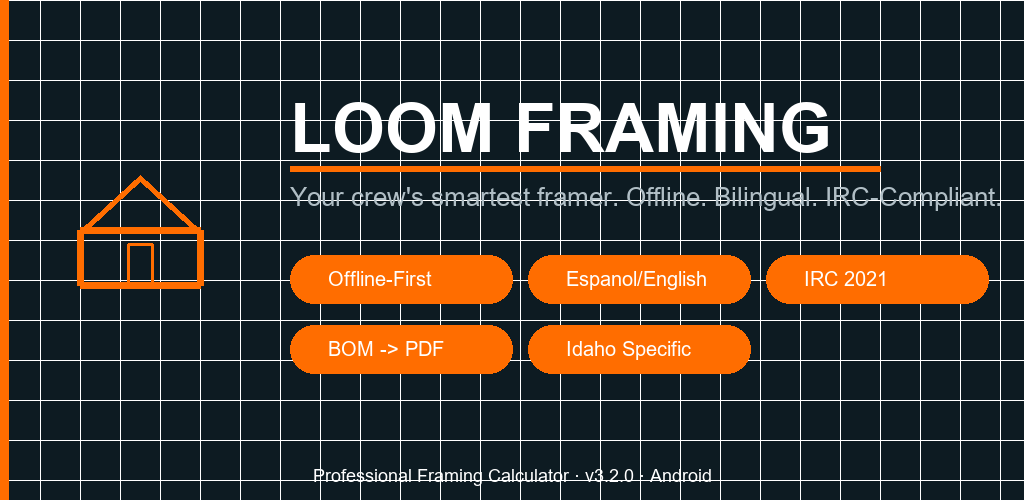
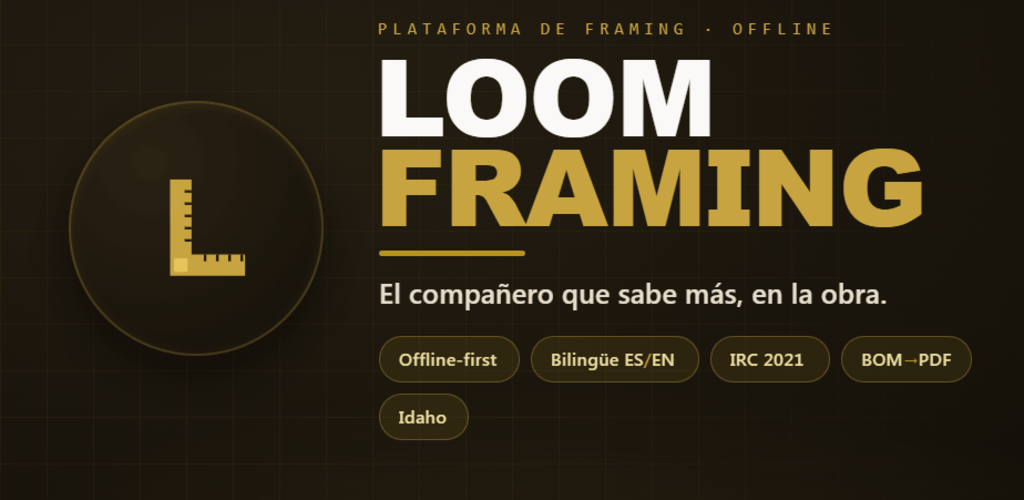
fix(landing): reframe testers a invitacion abierta + og:image gold/cream
Quita todo conteo/limite de testers del copy publico (canon inviolable
2026-06-16): hero subtext, parrafo y grilla de progreso de la seccion
TesterRecruit. Reemplaza el og:image v3 naranja por el banner
gold/cream 1024x500 (opaco, sin version) pa' que los posts nuevos de
FB salgan con la marca correcta.

diff --git a/loom/index.html b/loom/index.html
@@ -679,7 +679,7 @@ function Hero() {
       fontSize: 12,
       color: 'rgba(250,249,247,0.45)'
     }
-  }, "9 de 12 frameros pa' abrir el lanzamiento \xB7 closed testing"));
+  }, "Hecha por un framero, pa' frameros \xB7 \xE9ntrale al closed testing"));
 }
 
 // ─────────── BadgeRow ───────────
@@ -1669,15 +1669,12 @@ function FounderSeal() {
   }, "\u2014 Jes\xFAs (JezBlade) \xB7 framer & fundador de Loom"))));
 }
 
-// ─────────── TesterRecruit — invitación abierta + progreso + unity ───────────
-// 12 = umbral mínimo de Google Play (12 testers activos 14 días) pa' desbloquear
-// production. NO es un cap — es el piso. Copy = invitación abierta + progreso
-// ("ya somos 9, éntrale"), NUNCA escasez ("quedan X" / "cupo limitado").
-// Reciprocidad real (qué gana el tester). Unidad (crew, no hermandad).
-// SIN countdown inventado, SIN "X viéndola ahora".
+// ─────────── TesterRecruit — invitación abierta + reciprocidad + unity ───────────
+// CANON INVIOLABLE (2026-06-16): NUNCA conteos ni límites de testers en copy público
+// (sin números, sin grilla de progreso, sin escasez tipo "quedan X" / "cupo limitado").
+// Copy = invitación abierta + reciprocidad real (qué gana el tester) + unidad (crew).
+// SIN countdown inventado, SIN "X viéndola ahora", SIN cifras de testers.
 function TesterRecruit() {
-  const TAKEN = 9,
-    GOAL = 12;
   const GIVES = [['Antes que nadie', 'Bajas la v4 mientras los dem\xE1s esperan la p\xFAblica.'], ['Tu palabra pesa', 'Lo que reportas moldea la herramienta \u2014 feature por feature.'], ['Entras al crew', 'Tu nombre entre los que la levantaron desde el cimiento.']];
   return /*#__PURE__*/React.createElement("section", {
     style: {
@@ -1728,33 +1725,7 @@ function TesterRecruit() {
       lineHeight: 1.5,
       color: 'rgba(250,249,247,0.78)'
     }
-  }, "Google pide 12 frameros prob\xE1ndola activos pa' abrir el lanzamiento p\xFAblico. Ya van 9. No es un cupo que se cierra \u2014 es la meta que, cuando la pegamos, le abre la puerta a todo el gremio."), /*#__PURE__*/React.createElement("div", {
-    style: {
-      display: 'flex',
-      justifyContent: 'center',
-      gap: 9,
-      flexWrap: 'wrap',
-      marginBottom: 14
-    }
-  }, Array.from({
-    length: GOAL
-  }).map((_, i) => /*#__PURE__*/React.createElement("span", {
-    key: i,
-    style: {
-      width: 34,
-      height: 34,
-      borderRadius: 8,
-      display: 'flex',
-      alignItems: 'center',
-      justifyContent: 'center',
-      fontFamily: 'var(--font-mono)',
-      fontSize: 14,
-      fontWeight: 700,
-      background: i < TAKEN ? 'var(--gold-500)' : 'transparent',
-      color: i < TAKEN ? 'var(--cafe-900)' : 'var(--gold-500)',
-      border: i < TAKEN ? '1px solid var(--gold-500)' : '1.5px dashed var(--gold-700)'
-    }
-  }, i < TAKEN ? '✓' : '+'))), /*#__PURE__*/React.createElement("div", {
+  }, "El closed testing est\xE1 abierto pa' todo framero que quiera entrarle. Cada quien que la prueba le abre la puerta m\xE1s r\xE1pido a todo el gremio \u2014 y tu reporte la moldea antes de que salga al p\xFAblico."), /*#__PURE__*/React.createElement("div", {
     style: {
       textAlign: 'center',
       fontFamily: 'var(--font-mono)',
@@ -1763,7 +1734,7 @@ function TesterRecruit() {
       letterSpacing: '0.04em',
       marginBottom: 32
     }
-  }, "Ya somos ", TAKEN, " \u2014 \xE9ntrale t\xFA tambi\xE9n, entre m\xE1s mejor"), /*#__PURE__*/React.createElement("div", {
+  }, "Entre m\xE1s frameros le entran, m\xE1s r\xE1pido le abre la puerta a todo el gremio \u2014 \xE9ntrale t\xFA tambi\xE9n"), /*#__PURE__*/React.createElement("div", {
     className: "lm-gives-grid",
     style: {
       display: 'grid',